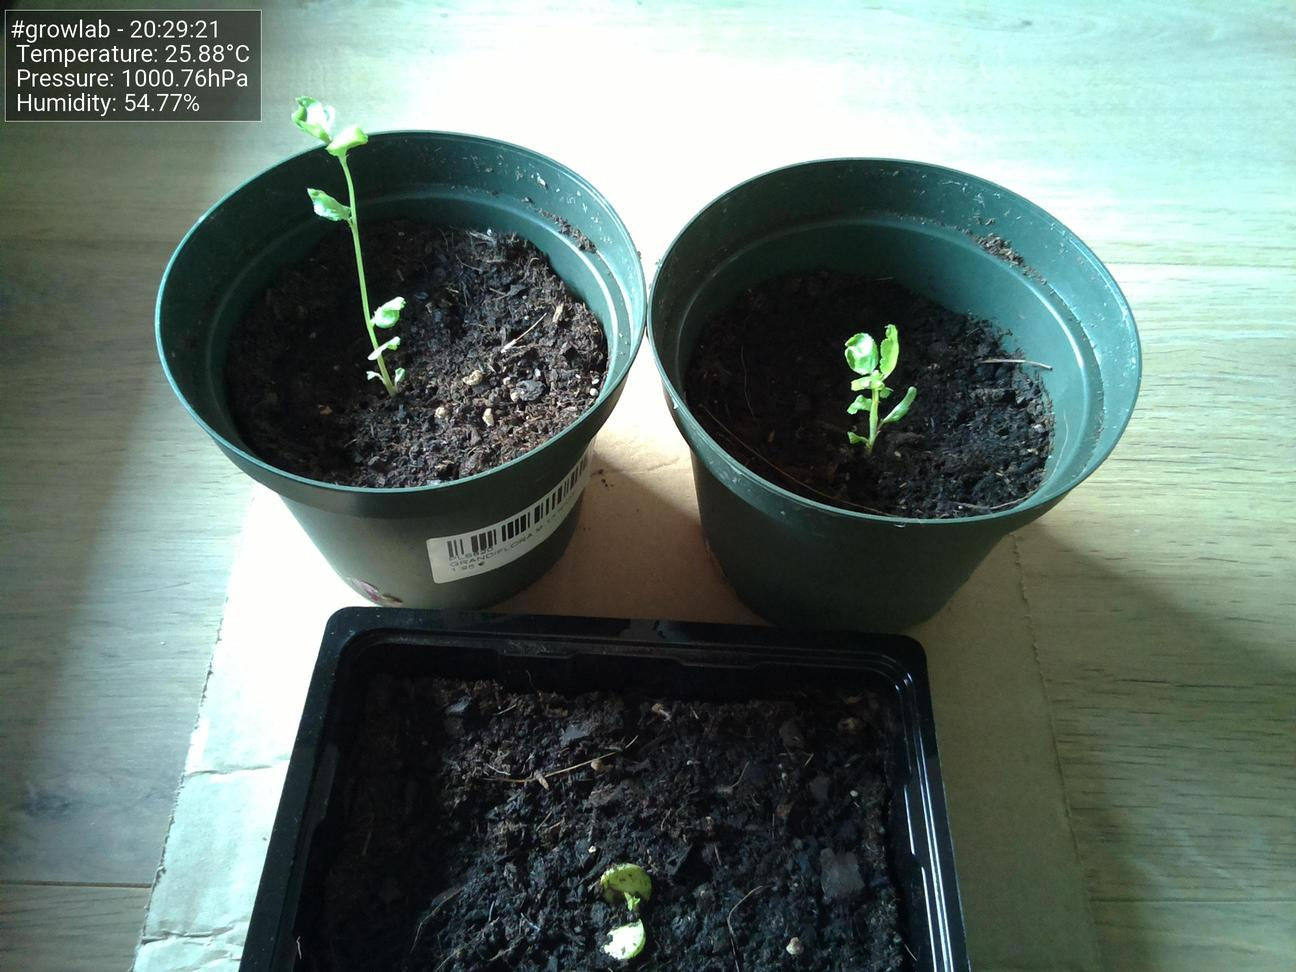
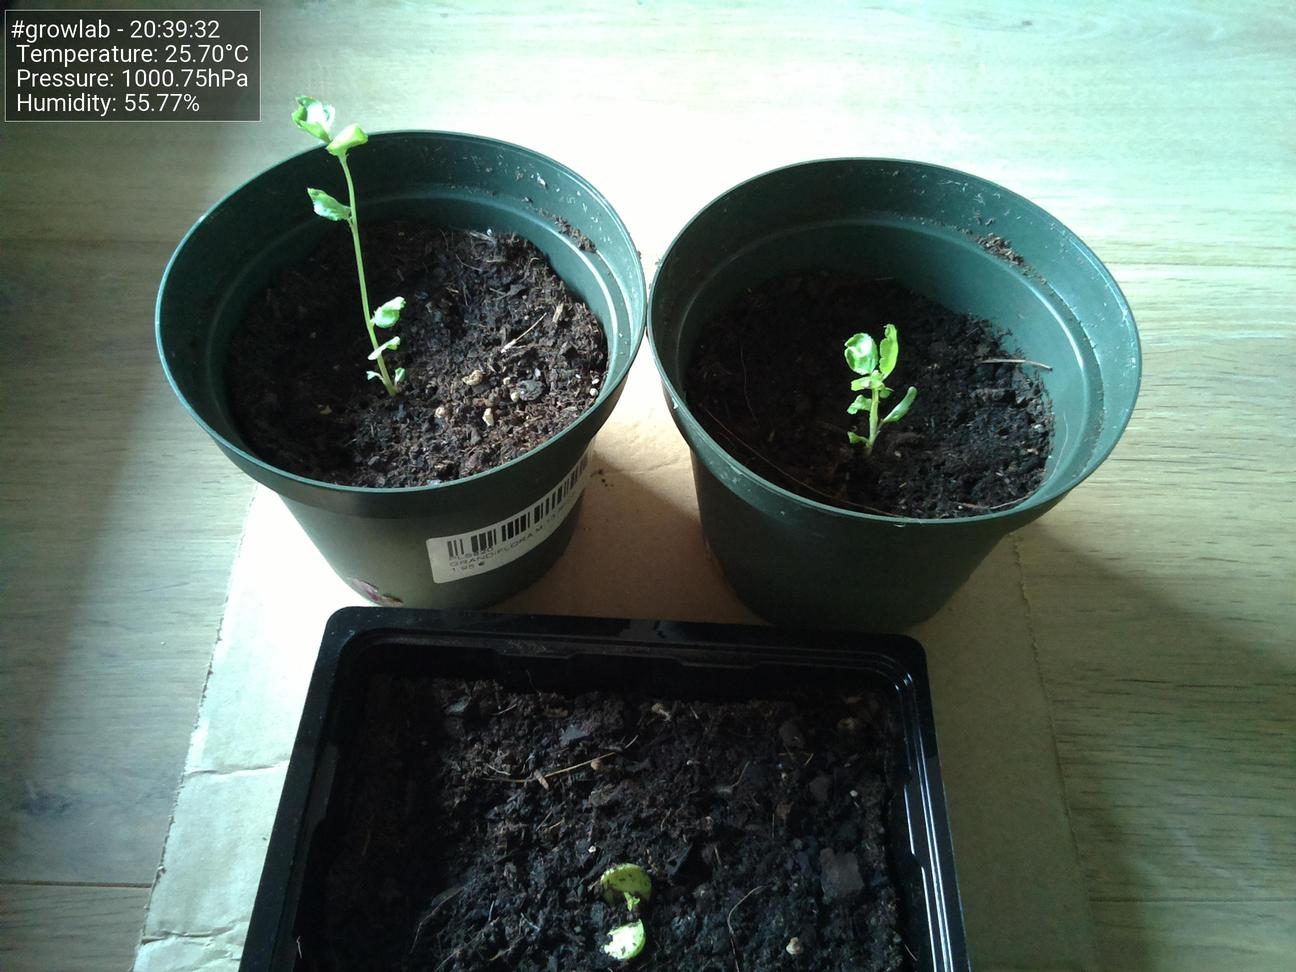
Update images at Sun 13 Jun 20:39:36 CEST 2021

diff --git a/docs/index.html b/docs/index.html
@@ -47,19 +47,19 @@
                         <tbody>
                             <tr>
                                 <td>Time</td>
-                                <td>20:29:21</td>
+                                <td>20:39:32</td>
                             </tr>
                             <tr>
                                 <td>Temperature</td>
-                                <td>25.88°C</td>
+                                <td>25.70°C</td>
                             </tr>
                             <tr>
                                 <td>Humidity</td>
-                                <td>54.77%</td>
+                                <td>55.77%</td>
                             </tr>
                             <tr>
                                 <td>Pressure</td>
-                                <td>1000.76hPa</td>
+                                <td>1000.75hPa</td>
                             </tr>
                         </tbody>
                     </table>
@@ -67,7 +67,7 @@
 
                 <h5>Latest image</h5>
                 <div style="width: 85%;">
-                            <img class="figure-img img-fluid rounded" src="./preview.jpg?uid=1623608965.386105">
+                            <img class="figure-img img-fluid rounded" src="./preview.jpg?uid=1623609576.7301924">
                 </div>
             </div>
         </div>
